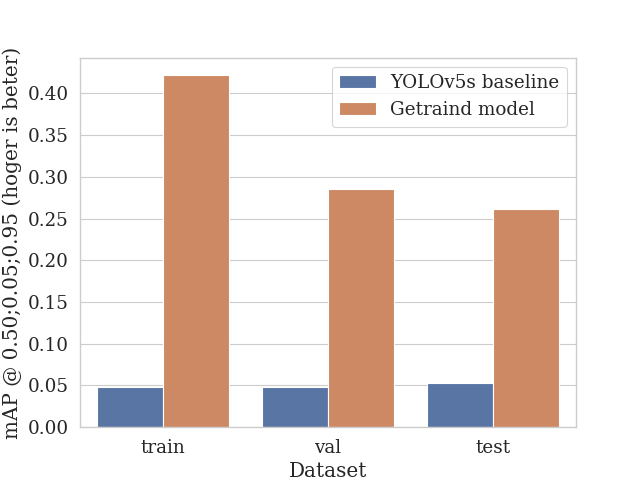
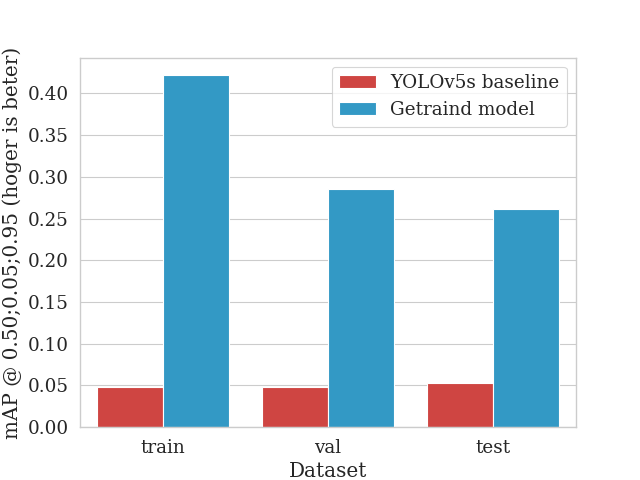
Changed colours to HU colours

diff --git a/results/analyse_baselines.py b/results/analyse_baselines.py
@@ -13,20 +13,20 @@ if __name__ == "__main__":
 
     sns.set_theme(context="paper", style="whitegrid", font="serif", font_scale=1.5, rc={"lines.linewidth": 2})
 
-    plot_mAP = sns.relplot(data=data, x="Model", y="mAP@0.50;0.05;0.95", col="Dataset", kind="line")
+    plot_mAP = sns.relplot(data=data, x="Model", y="mAP@0.50;0.05;0.95", col="Dataset", kind="line", color="#1BA2DD")
     plot_mAP.set_titles("Dataset: {col_name}")
     plot_mAP.set_ylabels("mAP @ 0.50;0.05;0.95 (hoger is beter)", clear_inner=False)
     plot_mAP.set_xlabels("", clear_inner=False)
     plot_mAP.set(ylim=(0, 0.1))
     plt.savefig("./results/baselines/baselines_mAP.png")
 
-    plot_time = sns.relplot(data=data, x="Model", y="FPS", col="Dataset", kind="line")
+    plot_time = sns.relplot(data=data, x="Model", y="FPS", col="Dataset", kind="line", color="#1BA2DD")
     plot_time.set_titles("Dataset: {col_name}")
     plot_time.set_ylabels("Aantal beelden per seconde (hoger is beter)", clear_inner=False)
     plot_time.set_xlabels("", clear_inner=False)
     plot_time.set(ylim=(0, 80))
 
-    plot_time.map(plt.axhline, y=30, ls='--', c='red')
-    plt.gca().text(-6.9, 30.5, "Realtime\n(30 fps)", color="red")
+    plot_time.map(plt.axhline, y=30, ls='--', c='#E62F2B')
+    plt.gca().text(-6.9, 30.5, "Realtime\n(30 fps)", color="#E62F2B")
 
     plt.savefig("./results/baselines/baselines_time.png")

diff --git a/results/analyse_results.py b/results/analyse_results.py
@@ -13,14 +13,16 @@ if __name__ == "__main__":
 
     sns.set_theme(context="paper", style="whitegrid", font="serif", font_scale=1.5, rc={"lines.linewidth": 2})
 
-    plot_mAP = sns.barplot(data=data, x="Dataset", y="mAP@0.50;0.05;0.95", hue="Model", hue_order=["YOLOv5s baseline", "Getraind model"])
+    plot_mAP = sns.barplot(data=data, x="Dataset", y="mAP@0.50;0.05;0.95", hue="Model",
+                           hue_order=["YOLOv5s baseline", "Getraind model"], palette=["#E62F2B", "#1BA2DD"])
     plot_mAP.set(ylabel="mAP @ 0.50;0.05;0.95 (hoger is beter)")
     plot_mAP.legend(loc="upper right")
     plt.savefig("./results/trained/trained_mAP.png")
 
     plt.clf()
 
-    plot_time = sns.barplot(data=data, x="Dataset", y="FPS", hue="Model", hue_order=["YOLOv5s baseline", "Getraind model"])
+    plot_time = sns.barplot(data=data, x="Dataset", y="FPS", hue="Model", hue_order=[
+                            "YOLOv5s baseline", "Getraind model"], palette=["#E62F2B", "#1BA2DD"])
     plot_time.set(ylabel="Aantal beelden per seconde (hoger is beter)", ylim=(0, 60))
     plot_time.legend(loc="upper right")
     plt.axhline(y=30, ls="--", c="red")
